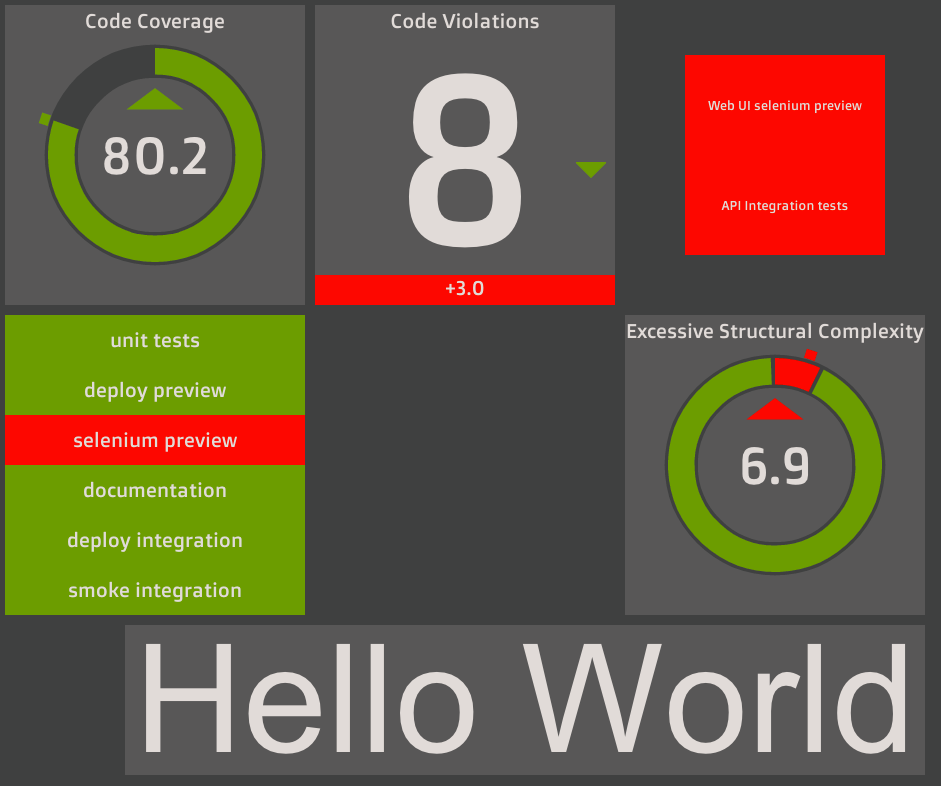
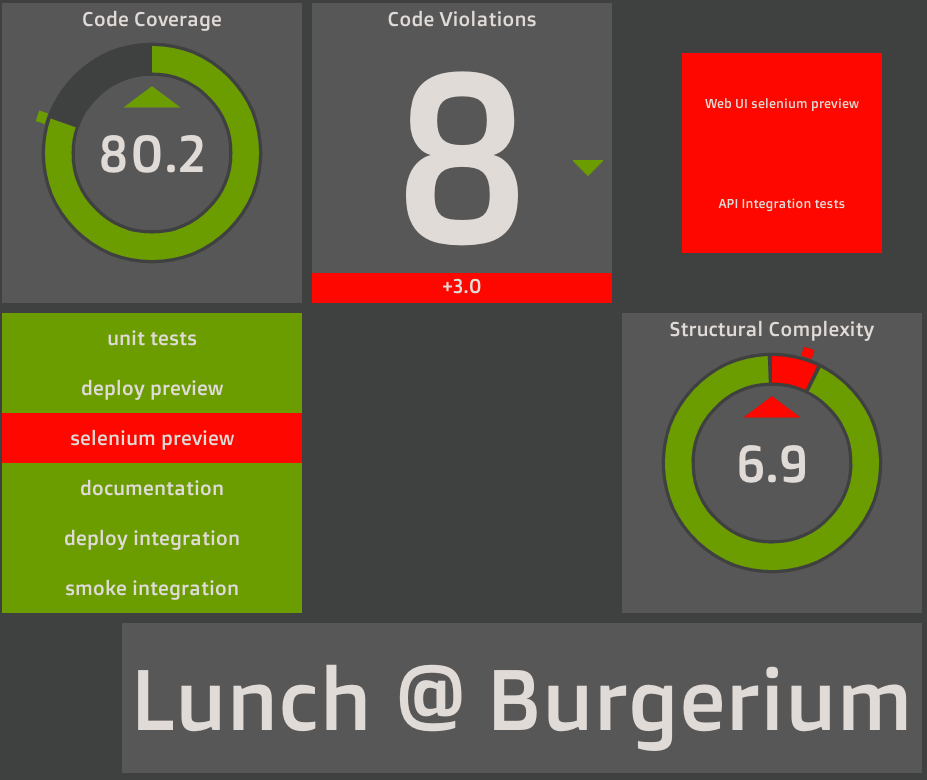
new demo screen + textarea uses the right font now

diff --git a/js/instrument/tw.instrument.textArea.js b/js/instrument/tw.instrument.textArea.js
@@ -29,7 +29,7 @@ teamwall.instrument.textArea = function (configuration) {
 
             var textWidth = (function me(fontSizes, min, max) {
                 var index = Math.floor((min + max) / 2);
-                context.font = fontSizes[index] + 'px Arial';
+                context.font = fontSizes[index] + 'px '+teamwall.configuration.font;
                 var textWidth = context.measureText(text).width;
                 if (min > max) {
                     return textWidth;
